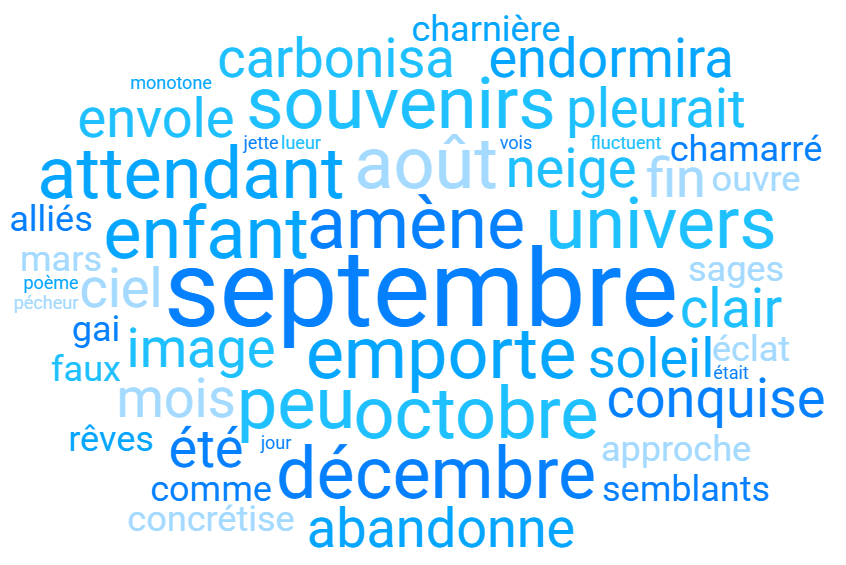
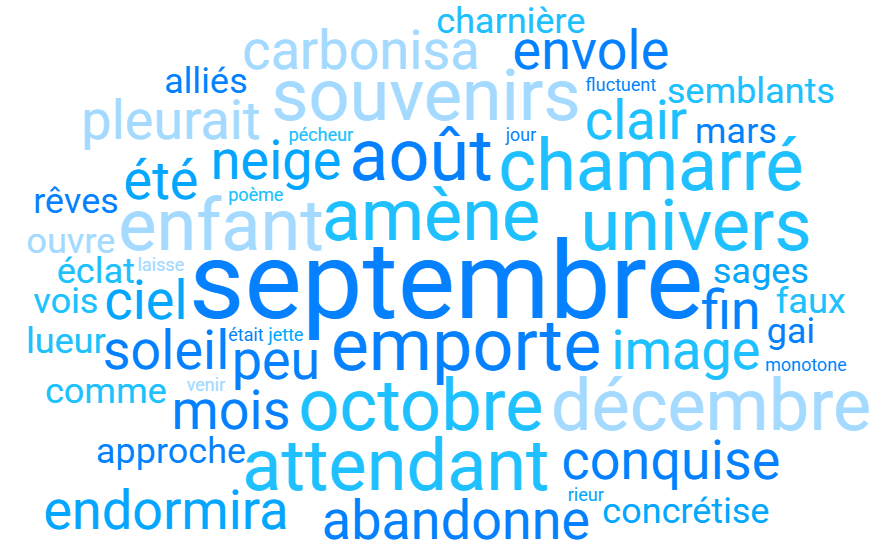
Add poems

diff --git a/content/fr/charts/general/poems-verseLength-line.js b/content/fr/charts/general/poems-verseLength-line.js
@@ -1,19 +1,19 @@
 import { addLineChart } from '../add-chart.js'
 (async function () {
   const data = [
-    { label: '1 syllabe', data: [0,0,0,0,0,0,0,0,0,0,0,0,0,0,0,0,0,0,0,0,0,0,0,0,1,0,1,1,0,1,0,0,0,0,0.0], borderColor: 'rgb(247, 249, 249)', backgroundColor: 'rgb(247, 249, 249)', fill: true },
-    { label: '2 syllabes', data: [0,0,2,0,1,0,0,0,0,0,0,0,0,0,0,0,1,1,2,2,1,2,2,2,4,4,4,3,2,1,1,0,1,3,0.0], borderColor: 'rgb(230, 176, 170)', backgroundColor: 'rgb(230, 176, 170)', fill: true },
-    { label: '3 syllabes', data: [0,0,2,1,0,0,0,0,0,0,0,0,0,0,0,0,1,2,0,1,1,4,2,5,4,4,9,5,5,3,2,3,0,3,0.0], borderColor: 'rgb(245, 183, 177)', backgroundColor: 'rgb(245, 183, 177)', fill: true },
-    { label: '4 syllabes', data: [0,5,2,2,0,1,2,1,0,1,2,0,0,0,0,0,1,2,5,2,5,11,7,14,10,10,11,11,8,6,15,8,5,12,0.0], borderColor: 'rgb(215, 189, 226)', backgroundColor: 'rgb(215, 189, 226)', fill: true },
-    { label: '5 syllabes', data: [0,0,3,1,0,1,0,1,2,3,5,1,1,0,0,3,4,3,5,9,4,1,1,3,6,4,5,5,7,16,10,8,8,8,25.0], borderColor: 'rgb(169, 204, 227)', backgroundColor: 'rgb(169, 204, 227)', fill: true },
-    { label: '6 syllabes', data: [5,6,13,26,19,8,5,4,17,6,12,8,9,10,7,10,15,22,13,25,12,13,17,14,12,15,19,15,21,12,14,14,21,15,0.0], borderColor: 'rgb(174, 214, 241)', backgroundColor: 'rgb(174, 214, 241)', fill: true },
-    { label: '7 syllabes', data: [0,0,0,0,4,3,5,7,2,8,5,4,4,4,5,7,7,1,2,3,4,0,2,2,1,0,0,0,1,2,0,1,0,2,0.0], borderColor: 'rgb(163, 228, 215)', backgroundColor: 'rgb(163, 228, 215)', fill: true },
-    { label: '8 syllabes', data: [15,15,25,22,23,26,21,29,12,19,15,15,15,20,20,16,15,13,16,6,16,17,18,13,10,11,5,14,8,10,7,15,12,12,12.5], borderColor: 'rgb(162, 217, 206)', backgroundColor: 'rgb(162, 217, 206)', fill: true },
-    { label: '9 syllabes', data: [0,0,1,0,0,0,1,0,0,1,0,0,1,1,1,1,1,0,0,1,1,0,0,0,3,1,0,1,0,0,1,0,0,0,0.0], borderColor: 'rgb(171, 235, 198)', backgroundColor: 'rgb(171, 235, 198)', fill: true },
-    { label: '10 syllabes', data: [0,0,0,0,1,5,3,2,2,2,1,2,2,2,6,2,3,1,1,0,0,0,0,0,0,0,1,0,0,0,0,0,2,1,12.5], borderColor: 'rgb(249, 231, 159)', backgroundColor: 'rgb(249, 231, 159)', fill: true },
-    { label: '11 syllabes', data: [0,0,0,0,0,0,0,0,0,5,3,4,1,2,0,0,0,1,0,0,0,0,0,0,0,0,1,0,0,0,0,0,0,0,0.0], borderColor: 'rgb(250, 215, 160)', backgroundColor: 'rgb(250, 215, 160)', fill: true },
-    { label: '12 syllabes', data: [29,24,6,0,3,6,13,6,15,7,7,16,18,10,11,12,3,6,7,4,7,5,5,2,3,6,0,2,3,2,1,1,2,0,0.0], borderColor: 'rgb(237, 187, 153)', backgroundColor: 'rgb(237, 187, 153)', fill: true },
-    { label: '14 syllabes', data: [0,0,0,0,0,0,0,0,0,1,0,1,0,2,1,0,0,0,0,0,0,0,0,0,0,0,0,0,0,0,0,0,0,0,0.0], borderColor: 'rgb(204, 209, 209)', backgroundColor: 'rgb(204, 209, 209)', fill: true },
+    { label: '1 syllabe', data: [0,0,0,0,0,0,0,0,0,0,0,0,0,0,0,0,0,0,0,0,0,0,0,0,1,0,1,1,0,1,0,0,0,0,0], borderColor: 'rgb(247, 249, 249)', backgroundColor: 'rgb(247, 249, 249)', fill: true },
+    { label: '2 syllabes', data: [0,0,2,0,1,0,0,0,0,0,0,0,0,0,0,0,1,1,2,2,1,2,2,2,4,4,4,3,2,1,1,0,1,3,0], borderColor: 'rgb(230, 176, 170)', backgroundColor: 'rgb(230, 176, 170)', fill: true },
+    { label: '3 syllabes', data: [0,0,2,1,0,0,0,0,0,0,0,0,0,0,0,0,1,2,0,1,1,4,2,5,4,4,9,5,5,3,2,3,0,3,0], borderColor: 'rgb(245, 183, 177)', backgroundColor: 'rgb(245, 183, 177)', fill: true },
+    { label: '4 syllabes', data: [0,5,2,2,0,1,2,1,0,1,2,0,0,0,0,0,1,2,5,2,5,11,7,14,10,10,11,11,8,6,15,8,5,12,0], borderColor: 'rgb(215, 189, 226)', backgroundColor: 'rgb(215, 189, 226)', fill: true },
+    { label: '5 syllabes', data: [0,0,3,1,0,1,0,1,2,3,5,1,1,0,0,3,4,3,5,9,4,1,1,3,6,4,5,5,7,16,10,8,8,8,16.7], borderColor: 'rgb(169, 204, 227)', backgroundColor: 'rgb(169, 204, 227)', fill: true },
+    { label: '6 syllabes', data: [5,6,13,26,19,8,5,4,17,6,12,8,9,10,7,10,15,22,13,25,12,13,17,14,12,15,19,15,21,12,14,14,21,15,16.7], borderColor: 'rgb(174, 214, 241)', backgroundColor: 'rgb(174, 214, 241)', fill: true },
+    { label: '7 syllabes', data: [0,0,0,0,4,3,5,7,2,8,5,4,4,4,5,7,7,1,2,3,4,0,2,2,1,0,0,0,1,2,0,1,0,2,0], borderColor: 'rgb(163, 228, 215)', backgroundColor: 'rgb(163, 228, 215)', fill: true },
+    { label: '8 syllabes', data: [15,15,25,22,23,26,21,29,12,19,15,15,15,20,20,16,15,13,16,6,16,17,18,13,10,11,5,14,8,10,7,15,12,12,8.3], borderColor: 'rgb(162, 217, 206)', backgroundColor: 'rgb(162, 217, 206)', fill: true },
+    { label: '9 syllabes', data: [0,0,1,0,0,0,1,0,0,1,0,0,1,1,1,1,1,0,0,1,1,0,0,0,3,1,0,1,0,0,1,0,0,0,0], borderColor: 'rgb(171, 235, 198)', backgroundColor: 'rgb(171, 235, 198)', fill: true },
+    { label: '10 syllabes', data: [0,0,0,0,1,5,3,2,2,2,1,2,2,2,6,2,3,1,1,0,0,0,0,0,0,0,1,0,0,0,0,0,2,1,8.3], borderColor: 'rgb(249, 231, 159)', backgroundColor: 'rgb(249, 231, 159)', fill: true },
+    { label: '11 syllabes', data: [0,0,0,0,0,0,0,0,0,5,3,4,1,2,0,0,0,1,0,0,0,0,0,0,0,0,1,0,0,0,0,0,0,0,0], borderColor: 'rgb(250, 215, 160)', backgroundColor: 'rgb(250, 215, 160)', fill: true },
+    { label: '12 syllabes', data: [29,24,6,0,3,6,13,6,15,7,7,16,18,10,11,12,3,6,7,4,7,5,5,2,3,6,0,2,3,2,1,1,2,0,0], borderColor: 'rgb(237, 187, 153)', backgroundColor: 'rgb(237, 187, 153)', fill: true },
+    { label: '14 syllabes', data: [0,0,0,0,0,0,0,0,0,1,0,1,0,2,1,0,0,0,0,0,0,0,0,0,0,0,0,0,0,0,0,0,0,0,0], borderColor: 'rgb(204, 209, 209)', backgroundColor: 'rgb(204, 209, 209)', fill: true },
   ];
     addLineChart('poemsVerseLengthLine', ['1 syllabe','2 syllabes','3 syllabes','4 syllabes','5 syllabes','6 syllabes','7 syllabes','8 syllabes','9 syllabes','10 syllabes','11 syllabes','12 syllabes','14 syllabes'], data, ['Premiers élans (1) 1994-96','Tableaux (2) 1996','Vivace (3) 1997','Rêves (4) 1997','Espaces de vie (5) 1997-98','Sur le chemin (6) 1998','Croire (7) 1998','Reflets perdus (8) 1998','Souffles (9) 1998','Pensées (10) 1998-99','Perceptible (11) 1999','Tempo piano (12) 1999','Divina (13) 1999','Au long cours (14) 1999-2001','De place en place (15) 2001','Plus loin (16) 2002-04','Traversées (17) 2004-23','Retour aux sources (18) 2023-24','Destination bonheur (19) 2024','Le temps qui nous reste (20) 2024','C\'est vivre qui compte (21) 2024','Au temps le dire (22) 2024','Jamais trop (23) 2024','Les mots respirent (24) 2024-25','Coeur et âme (25) 2025','Chemins non balisés (26) 2025','D\'un rêve à l\'autre (27) 2025','Les mots sur le chemin (28) 2025','Kaléidoscopes (29) 2025','Tout fait sens (30) 2025-26','Emotions mouvantes (31) 2026','Témoin jour après jour (32) 2026','La musique des mots (33) 2026','A mi-chemin du paradis (34) 2026','Un jour à la fois (35) 2026'], 'stack0', {});
 })();

diff --git a/content/fr/charts/general/category-metric.js b/content/fr/charts/general/category-metric.js
@@ -283,7 +283,7 @@ import { addBubbleChart } from '../add-chart.js'
     { x: 31, y: 8, r: 5.4794520547945205479452054794, color: 'rgba(119, 181, 254, 1)' },
     { x: 1, y: 8, r: 4.3835616438356164383561643836, color: 'rgba(119, 181, 254, 1)' },
     { x: 28, y: 6, r: 7.1232876712328767123287671232, color: 'rgba(119, 181, 254, 1)' },
-    { x: 27, y: 6, r: 4.3835616438356164383561643836, color: 'rgba(119, 181, 254, 1)' },
+    { x: 27, y: 6, r: 4.6575342465753424657534246576, color: 'rgba(119, 181, 254, 1)' },
     { x: 12, y: 6, r: 6.8493150684931506849315068494, color: 'rgba(119, 181, 254, 1)' },
     { x: 8, y: 6, r: 6.8493150684931506849315068494, color: 'rgba(119, 181, 254, 1)' },
     { x: 11, y: 8, r: 8.493150684931506849315068493, color: 'rgba(119, 181, 254, 1)' },
@@ -315,7 +315,6 @@ import { addBubbleChart } from '../add-chart.js'
     { x: 29, y: 6, r: 4.9315068493150684931506849316, color: 'rgba(119, 181, 254, 1)' },
     { x: 8, y: 4, r: 4.9315068493150684931506849316, color: 'rgba(119, 181, 254, 1)' },
     { x: 13, y: 6, r: 7.3972602739726027397260273972, color: 'rgba(119, 181, 254, 1)' },
-    { x: 5, y: 6, r: 9.863013698630136986301369863, color: 'rgba(119, 181, 254, 1)' },
     { x: 31, y: 6, r: 4.6575342465753424657534246576, color: 'rgba(119, 181, 254, 1)' },
     { x: 24, y: 8, r: 9.041095890410958904109589041, color: 'rgba(119, 181, 254, 1)' },
     { x: 24, y: 6, r: 5.2054794520547945205479452054, color: 'rgba(119, 181, 254, 1)' },
@@ -333,6 +332,7 @@ import { addBubbleChart } from '../add-chart.js'
 [
     { x: 14, y: 8, r: 8.424657534246575342465753425, color: 'rgba(0, 127, 255, 1)' },
     { x: 5, y: 8, r: 9.657534246575342465753424658, color: 'rgba(0, 127, 255, 1)' },
+    { x: 5, y: 6, r: 7.6027397260273972602739726028, color: 'rgba(0, 127, 255, 1)' },
     { x: 14, y: 6, r: 7.6027397260273972602739726028, color: 'rgba(0, 127, 255, 1)' },
 ],
 [

diff --git a/content/fr/charts/taxonomy/poems-day-saisons-radar.js b/content/fr/charts/taxonomy/poems-day-saisons-radar.js
@@ -235,7 +235,7 @@ import { addRadarChart } from '../add-chart.js'
     { label: '', value: 2 },
     { label: '', value: 3 },
     { label: '', value: 2 },
-    { label: '', value: 1 },
+    { label: '', value: 2 },
     { label: '', value: 1 },
     { label: '', value: 2 },
     { label: '', value: 0 },
@@ -368,5 +368,5 @@ import { addRadarChart } from '../add-chart.js'
     { label: '', value: 3 },
     { label: '', value: 0 },
   ];
-  addRadarChart('poemDay-saisonsRadar', ['Mois les plus représentés : septembre, novembre, août, octobre'], [data], { backgroundColor: 'rgba(130, 196, 108, 0.5)', borderColor: 'rgba(130, 196, 108, 1)', pointBackgroundColor: 'rgba(130, 196, 108, 1)', pointBorderColor: '#fff', pointHoverBackgroundColor: '#fff', pointHoverBorderColor: 'rgb(54, 162, 235)', elements: { line: { borderWidth: 1  } }, scales: { r: { ticks: { stepSize: 1 } } } });
+  addRadarChart('poemDay-saisonsRadar', ['Mois les plus représentés : septembre, août, novembre, octobre'], [data], { backgroundColor: 'rgba(130, 196, 108, 0.5)', borderColor: 'rgba(130, 196, 108, 1)', pointBackgroundColor: 'rgba(130, 196, 108, 1)', pointBorderColor: '#fff', pointHoverBackgroundColor: '#fff', pointHoverBorderColor: 'rgb(54, 162, 235)', elements: { line: { borderWidth: 1  } }, scales: { r: { ticks: { stepSize: 1 } } } });
 })();

diff --git a/content/fr/charts/taxonomy/poems-day-les-mois-radar.js b/content/fr/charts/taxonomy/poems-day-les-mois-radar.js
@@ -235,7 +235,7 @@ import { addRadarChart } from '../add-chart.js'
     { label: '', value: 0 },
     { label: '', value: 0 },
     { label: '', value: 1 },
-    { label: '', value: 0 },
+    { label: '', value: 1 },
     { label: '', value: 1 },
     { label: '', value: 1 },
     { label: '', value: 0 },
@@ -368,5 +368,5 @@ import { addRadarChart } from '../add-chart.js'
     { label: '', value: 0 },
     { label: '', value: 0 },
   ];
-  addRadarChart('poemDay-les_moisRadar', ['Mois les plus représentés : novembre, octobre, août, avril'], [data], { backgroundColor: 'rgba(76, 201, 240)', borderColor: 'rgba(0, 0, 0, 0.1)', pointBackgroundColor: 'rgba(0, 0, 0, 0.1)', pointBorderColor: '#fff', pointHoverBackgroundColor: '#fff', pointHoverBorderColor: 'rgb(54, 162, 235)', elements: { line: { borderWidth: 1  } }, scales: { r: { ticks: { stepSize: 1 } } } });
+  addRadarChart('poemDay-les_moisRadar', ['Mois les plus représentés : novembre, août, octobre, avril'], [data], { backgroundColor: 'rgba(76, 201, 240)', borderColor: 'rgba(0, 0, 0, 0.1)', pointBackgroundColor: 'rgba(0, 0, 0, 0.1)', pointBorderColor: '#fff', pointHoverBackgroundColor: '#fff', pointHoverBorderColor: 'rgb(54, 162, 235)', elements: { line: { borderWidth: 1  } }, scales: { r: { ticks: { stepSize: 1 } } } });
 })();

diff --git a/content/fr/charts/general/categories-pie.js b/content/fr/charts/general/categories-pie.js
@@ -4,7 +4,7 @@ import { addPieChart } from '../add-chart.js'
     { label: 'Amitié', value: 33, color: 'rgba(254, 231, 240, 1)' },
     { label: 'Amour platonique', value: 37, color: 'rgba(255, 111, 125, 1)' },
     { label: 'Romantisme', value: 68, color: 'rgba(253, 108, 158, 1)' },
-    { label: 'Passion', value: 65, color: 'rgba(199, 44, 72, 1)' },
+    { label: 'Passion', value: 66, color: 'rgba(199, 44, 72, 1)' },
     { label: 'Aube', value: 57, color: 'rgba(255, 163, 0, 1)' },
     { label: 'Lune', value: 40, color: 'rgba(252, 215, 87, 1)' },
     { label: 'Ville', value: 26, color: 'rgba(139, 91, 41, 1)' },
@@ -35,7 +35,7 @@ import { addPieChart } from '../add-chart.js'
     { label: 'Félinement vôtre', value: 56, color: 'rgba(161, 86, 28, 1)' },
     { label: 'Printemps', value: 67, color: 'rgba(130, 196, 108, 1)' },
     { label: 'Eté', value: 74, color: 'rgba(0, 86, 27, 1)' },
-    { label: 'Automne', value: 147, color: 'rgba(27, 79, 8, 1)' },
+    { label: 'Automne', value: 148, color: 'rgba(27, 79, 8, 1)' },
     { label: 'Hiver', value: 81, color: 'rgba(24, 57, 30, 1)' },
   ];
   addPieChart('categoriesPie', [data], { plugins: { title: { display: true, text: '' } } });

diff --git a/content/fr/charts/metric-6/categories-pie.js b/content/fr/charts/metric-6/categories-pie.js
@@ -4,7 +4,7 @@ import { addPieChart } from '../add-chart.js'
     { label: 'Amitié', value: 13, color: 'rgba(254, 231, 240, 1)' },
     { label: 'Amour platonique', value: 7, color: 'rgba(255, 111, 125, 1)' },
     { label: 'Romantisme', value: 18, color: 'rgba(253, 108, 158, 1)' },
-    { label: 'Passion', value: 17, color: 'rgba(199, 44, 72, 1)' },
+    { label: 'Passion', value: 18, color: 'rgba(199, 44, 72, 1)' },
     { label: 'Aube', value: 15, color: 'rgba(255, 163, 0, 1)' },
     { label: 'Lune', value: 10, color: 'rgba(252, 215, 87, 1)' },
     { label: 'Ville', value: 2, color: 'rgba(139, 91, 41, 1)' },
@@ -35,7 +35,7 @@ import { addPieChart } from '../add-chart.js'
     { label: 'Félinement vôtre', value: 7, color: 'rgba(161, 86, 28, 1)' },
     { label: 'Printemps', value: 19, color: 'rgba(130, 196, 108, 1)' },
     { label: 'Eté', value: 28, color: 'rgba(0, 86, 27, 1)' },
-    { label: 'Automne', value: 39, color: 'rgba(27, 79, 8, 1)' },
+    { label: 'Automne', value: 40, color: 'rgba(27, 79, 8, 1)' },
     { label: 'Hiver', value: 32, color: 'rgba(24, 57, 30, 1)' },
   ];
   addPieChart('metric6Pie', [data], { plugins: { title: { display: true, text: '' } } });

diff --git a/content/fr/charts/taxonomy/categories-2026-pie.js b/content/fr/charts/taxonomy/categories-2026-pie.js
@@ -3,7 +3,7 @@ import { addPieChart } from '../add-chart.js'
   const data = [
     { label: 'Amitié', value: 3, color: 'rgba(254, 231, 240, 1)' },
     { label: 'Romantisme', value: 6, color: 'rgba(253, 108, 158, 1)' },
-    { label: 'Passion', value: 2, color: 'rgba(199, 44, 72, 1)' },
+    { label: 'Passion', value: 3, color: 'rgba(199, 44, 72, 1)' },
     { label: 'Aube', value: 7, color: 'rgba(255, 163, 0, 1)' },
     { label: 'Lune', value: 2, color: 'rgba(252, 215, 87, 1)' },
     { label: 'Ville', value: 1, color: 'rgba(139, 91, 41, 1)' },
@@ -32,7 +32,7 @@ import { addPieChart } from '../add-chart.js'
     { label: 'Félinement vôtre', value: 20, color: 'rgba(161, 86, 28, 1)' },
     { label: 'Printemps', value: 16, color: 'rgba(130, 196, 108, 1)' },
     { label: 'Eté', value: 24, color: 'rgba(0, 86, 27, 1)' },
-    { label: 'Automne', value: 3, color: 'rgba(27, 79, 8, 1)' },
+    { label: 'Automne', value: 4, color: 'rgba(27, 79, 8, 1)' },
     { label: 'Hiver', value: 3, color: 'rgba(24, 57, 30, 1)' },
   ];
   addPieChart('categories2026Pie', [data], { plugins: { title: { display: true, text: '2026' } } });

diff --git a/content/fr/charts/season-35/categories-pie.js b/content/fr/charts/season-35/categories-pie.js
@@ -1,13 +1,14 @@
 import { addPieChart } from '../add-chart.js'
 (async function () {
   const data = [
+    { label: 'Passion', value: 1, color: 'rgba(199, 44, 72, 1)' },
     { label: 'Enfance et adolescence', value: 1, color: 'rgba(247, 235, 253, 1)' },
     { label: 'Temps', value: 1, color: 'rgba(140, 7, 221, 1)' },
     { label: 'Eau douce', value: 1, color: 'rgba(0, 127, 255, 1)' },
     { label: 'Ciel', value: 1, color: 'rgba(119, 181, 254, 1)' },
     { label: 'Climat', value: 1, color: 'rgb(50, 122, 183, 1)' },
     { label: 'Félinement vôtre', value: 1, color: 'rgba(161, 86, 28, 1)' },
-    { label: 'Automne', value: 1, color: 'rgba(27, 79, 8, 1)' },
+    { label: 'Automne', value: 2, color: 'rgba(27, 79, 8, 1)' },
   ];
   addPieChart('season35Pie', [data], { plugins: { title: { display: true, text: 'Un jour à la fois (35) août 2026' } } });
 })();

diff --git a/content/fr/charts/general/poem-dayofweek-pie.js b/content/fr/charts/general/poem-dayofweek-pie.js
@@ -5,8 +5,8 @@ import { addPieChart } from '../add-chart.js'
     { label: 'Mardi', value: 236, color: 'rgba(72, 149, 239, 0.4)' },
     { label: 'Mercredi', value: 232, color: 'rgba(72, 149, 239, 0.5)' },
     { label: 'Jeudi', value: 199, color: 'rgba(72, 149, 239, 0.6000000000000001)' },
-    { label: 'Vendredi', value: 228, color: 'rgba(72, 149, 239, 0.7)' },
-    { label: 'Samedi', value: 279, color: 'rgba(72, 149, 239, 0.8)' },
+    { label: 'Vendredi', value: 229, color: 'rgba(72, 149, 239, 0.7)' },
+    { label: 'Samedi', value: 280, color: 'rgba(72, 149, 239, 0.8)' },
     { label: 'Dimanche', value: 314, color: 'rgba(72, 149, 239, 0.9000000000000001)' },
   ];
   addPieChart('poemDayOfWeekPie', [data], { plugins: { title: { display: true, text: 'Par jour de la semaine' } } });

diff --git a/content/fr/charts/taxonomy/poems-saisons-bar.js b/content/fr/charts/taxonomy/poems-saisons-bar.js
@@ -35,7 +35,7 @@ import { addBarChart } from '../add-chart.js'
     { label: 'Témoin jour après jour (32) 2026', value: 6, color: 'rgba(130, 196, 108, 0.5)' },
     { label: 'La musique des mots (33) 2026', value: 15, color: 'rgba(130, 196, 108, 0.5)' },
     { label: 'A mi-chemin du paradis (34) 2026', value: 11, color: 'rgba(130, 196, 108, 0.5)' },
-    { label: 'Un jour à la fois (35) 2026', value: 1, color: 'rgba(130, 196, 108, 0.5)' },
+    { label: 'Un jour à la fois (35) 2026', value: 2, color: 'rgba(130, 196, 108, 0.5)' },
   ];
     addBarChart('poems-saisonsBar', ['Poèmes au fil des saisons'], [data], {scales: { y: { ticks: { stepSize: 1 } } }});
 })();

diff --git a/content/fr/charts/taxonomy/poems-amour-bar.js b/content/fr/charts/taxonomy/poems-amour-bar.js
@@ -35,7 +35,7 @@ import { addBarChart } from '../add-chart.js'
     { label: 'Témoin jour après jour (32) 2026', value: 3, color: 'rgba(253, 108, 158, 0.5)' },
     { label: 'La musique des mots (33) 2026', value: 2, color: 'rgba(253, 108, 158, 0.5)' },
     { label: 'A mi-chemin du paradis (34) 2026', value: 1, color: 'rgba(253, 108, 158, 0.5)' },
-    { label: 'Un jour à la fois (35) 2026', value: 0, color: 'rgba(253, 108, 158, 0.5)' },
+    { label: 'Un jour à la fois (35) 2026', value: 1, color: 'rgba(253, 108, 158, 0.5)' },
   ];
     addBarChart('poems-amourBar', ['Poèmes au fil des saisons'], [data], {scales: { y: { ticks: { stepSize: 1 } } }});
 })();

diff --git a/content/fr/charts/taxonomy/poems-metric-6-bar.js b/content/fr/charts/taxonomy/poems-metric-6-bar.js
@@ -35,7 +35,7 @@ import { addBarChart } from '../add-chart.js'
     { label: 'Témoin jour après jour (32) 2026', value: 14, color: 'rgba(72, 149, 239, 0.5)' },
     { label: 'La musique des mots (33) 2026', value: 21, color: 'rgba(72, 149, 239, 0.5)' },
     { label: 'A mi-chemin du paradis (34) 2026', value: 15, color: 'rgba(72, 149, 239, 0.5)' },
-    { label: 'Un jour à la fois (35) 2026', value: 0, color: 'rgba(72, 149, 239, 0.5)' },
+    { label: 'Un jour à la fois (35) 2026', value: 2, color: 'rgba(72, 149, 239, 0.5)' },
   ];
     addBarChart('poems-metric6Bar', ['Poèmes au fil des saisons'], [data], {scales: { y: { ticks: { stepSize: 1 } } }});
 })();
